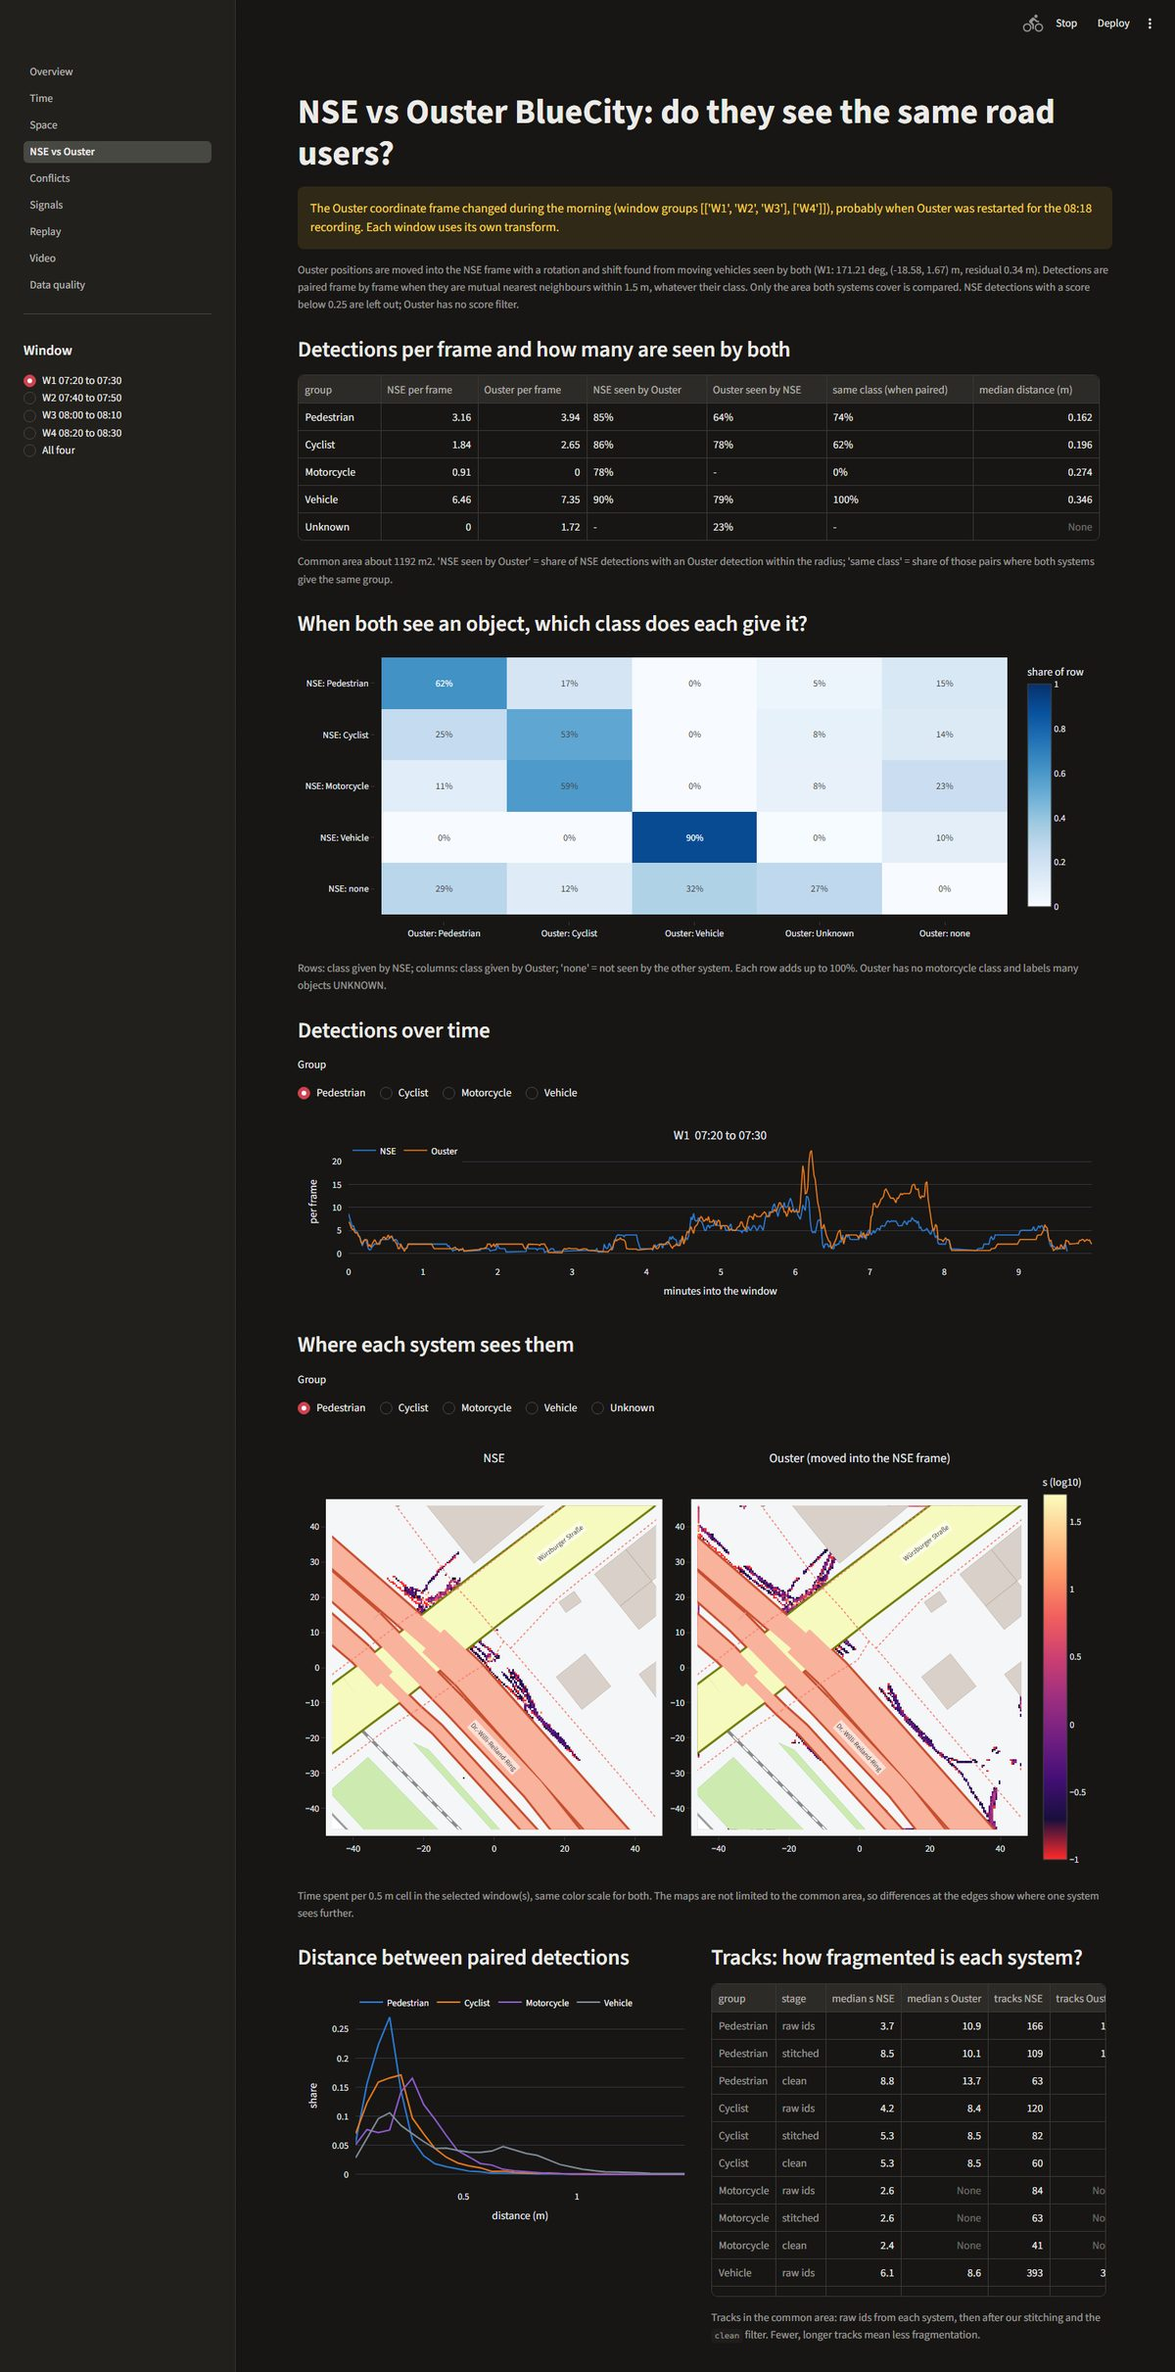
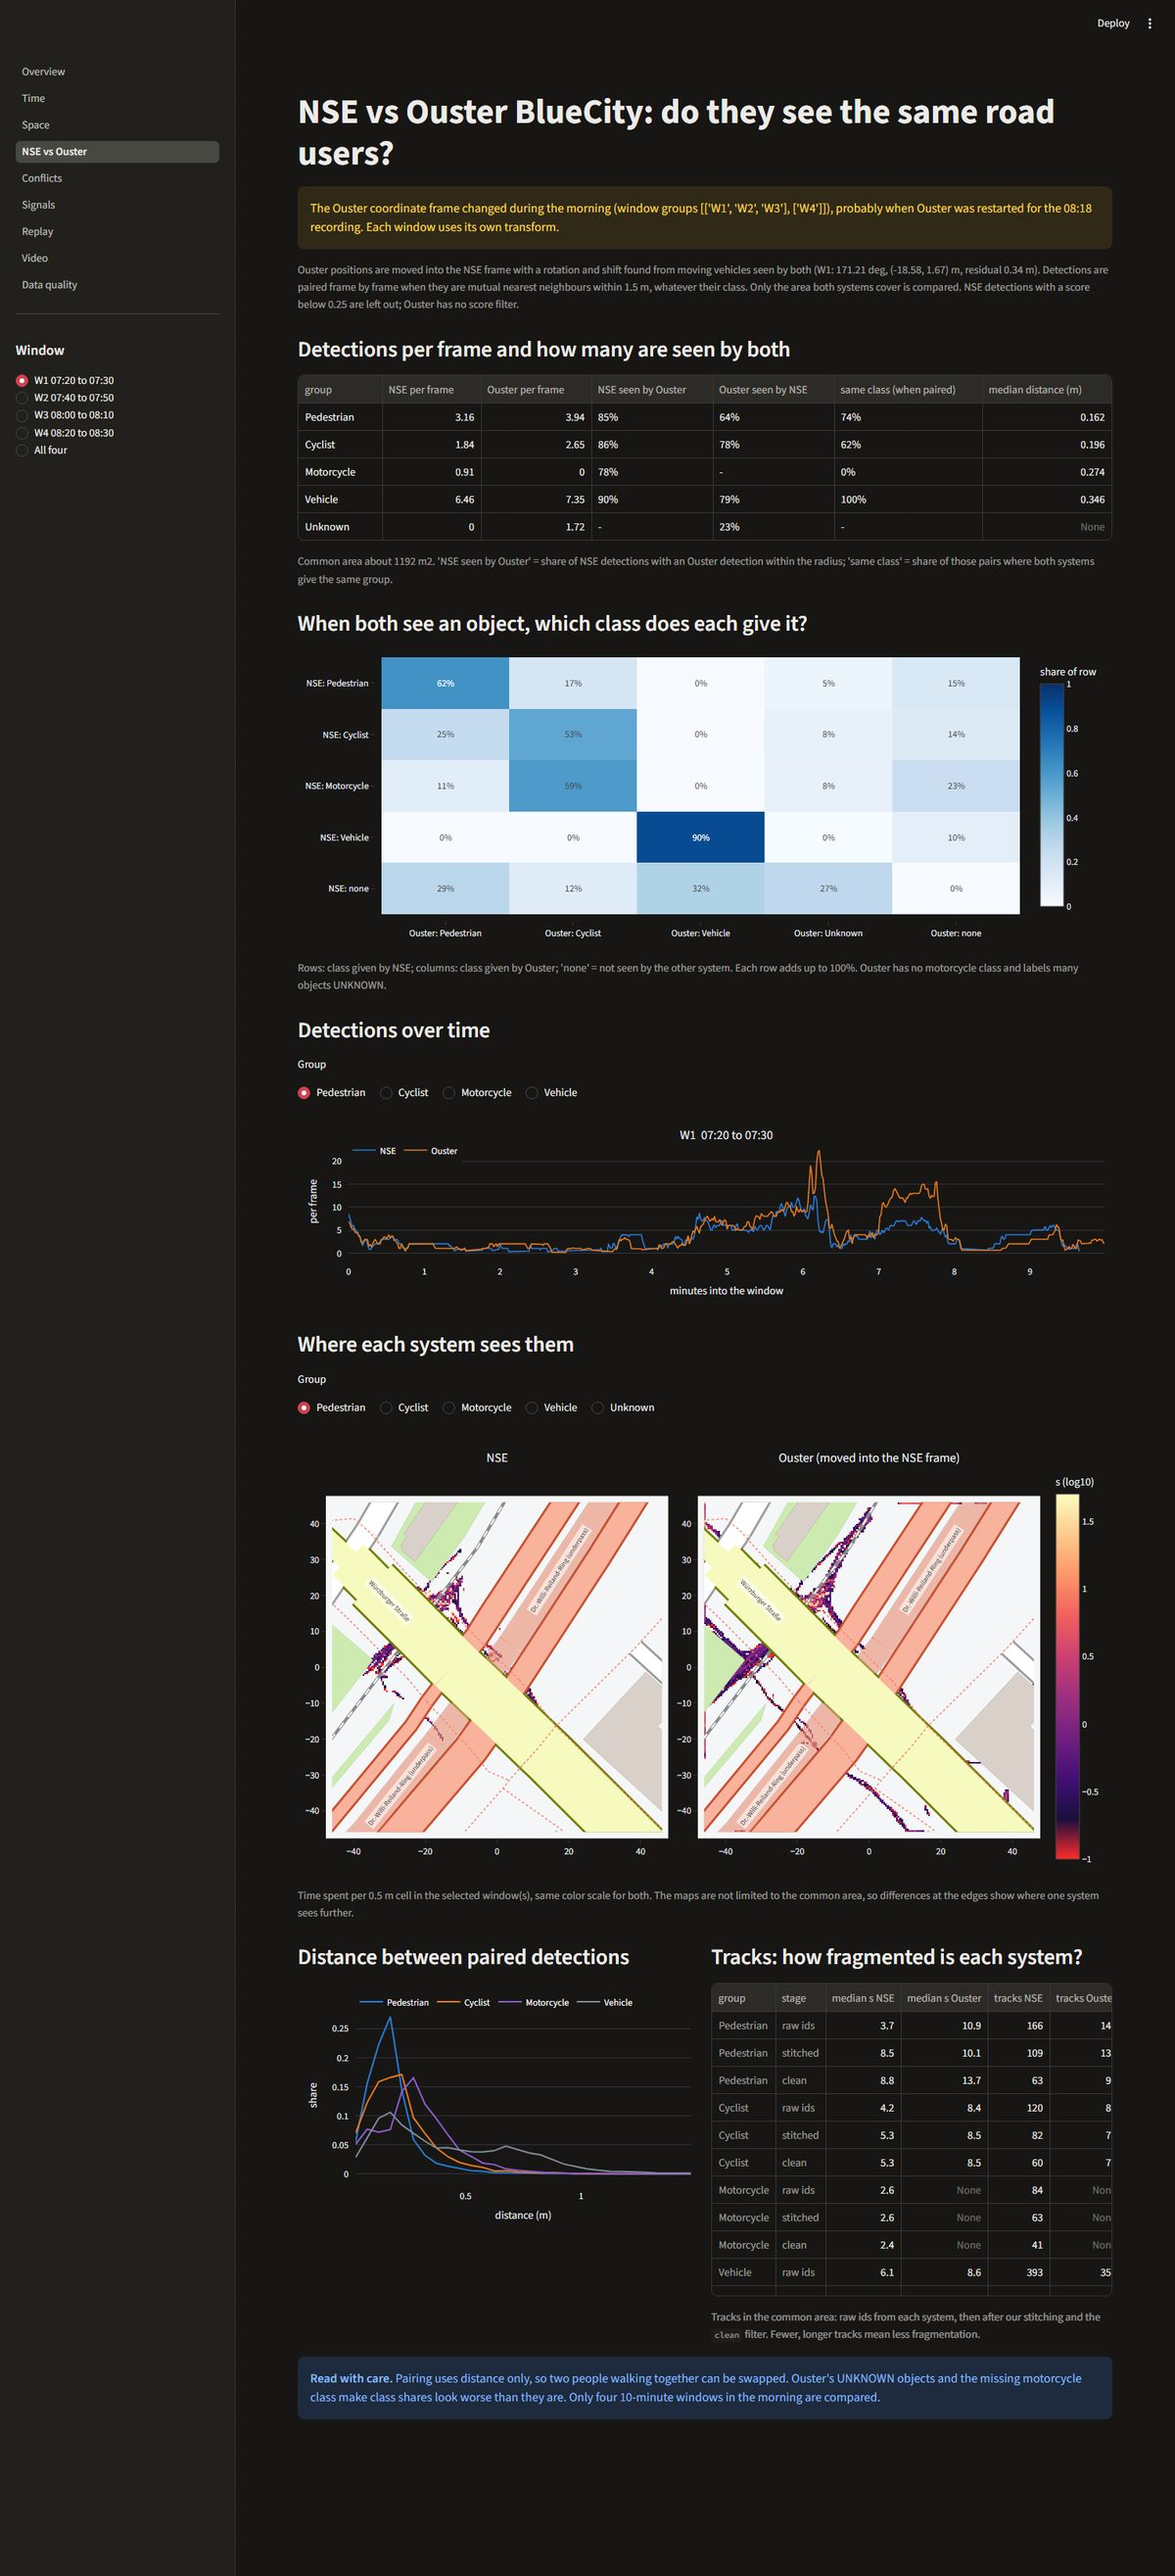
Fix map alignment: rotation 4.25 deg via surface-road refit, rename arms
The first fit locked onto a turn 90 deg off because the Ring main road runs
under Wuerzburger Strasse. surface_fit refits on surface roads and ramps,
tries all four quarter turns and scores footways and crossings on pedestrian
traffic. Arms renamed to match (old E = N, N = W, W = S, S = E). Zones, map
json, screenshots, findings and docs updated.

diff --git a/map_alignment.py b/map_alignment.py
@@ -13,7 +13,10 @@ Writes in --out:
     alignment_check.png overlay of the map on vehicle and pedestrian density
 
 Method: coarse search over rotation (1 degree steps, FFT cross-correlation over shifts, 1 m cells), then
-a fine local search (0.25 degree, 0.5 m) on the road points. Needs numpy, matplotlib.
+a fine local search (0.25 degree, 0.5 m) on the road points. That first fit uses all motor roads and came out
+90 degrees off at K305, where the Ring main road runs under Wuerzburger Strasse. `surface_fit` therefore refits on
+the surface roads only (Wuerzburger Strasse and the ramps), tries all four quarter turns and picks the one that
+also puts footways and crossings on pedestrian traffic. Needs numpy, matplotlib.
 """
 import argparse
 import json
@@ -237,6 +240,73 @@ def oneway_direction_check(ways, nodes, lat0, lon0, deg, shift, mirror, velfield
     return agree, tot
 
 
+def surface_fit(nodes, ways, lat0, lon0, veh, ped, deg0, mirror, radius=60.0):
+    """Refit on the roads the sensor can see, trying all four quarter turns from `deg0`.
+
+    At K305 Wuerzburger Strasse is a bridge and the Ring main road (highway=trunk) runs underneath, so vehicles on
+    the Ring are not on the junction surface. Fitting all motor roads, as `refine` does, can lock onto a turn that is
+    90 deg off (the junction looks almost the same turned). Here: Wuerzburger Strasse and the ramps (trunk_link) must
+    lie on vehicle traffic, the Ring main road should not, road outside the sensor view counts as empty, and
+    footways and crossing nodes must lie on pedestrian traffic (that breaks the 180 deg symmetry).
+    The pose is searched as "where the Wuerzburger x Ring point lands" plus a rotation around it.
+    """
+    def pts(pred, centre=None, r=radius):
+        p = np.vstack([densify(way_xy(w, nodes, lat0, lon0)) for w in ways if pred(w["tags"])])
+        return p if centre is None else p[np.hypot(*(p - centre).T) < r]
+
+    wz_all = pts(lambda t: t.get("name") == "Würzburger Straße")
+    ring_all = pts(lambda t: t.get("highway") == "trunk")
+    near = lambda p: p[np.hypot(p[:, 0], p[:, 1]) < 80]
+    a, b = near(wz_all), near(ring_all)
+    dist = np.hypot(a[:, None, 0] - b[None, :, 0], a[:, None, 1] - b[None, :, 1])
+    i, j = np.unravel_index(np.argmin(dist), dist.shape)
+    J = (a[i] + b[j]) / 2  # Wuerzburger x Ring, ENU meters
+    wz = wz_all[np.hypot(*(wz_all - J).T) < radius]
+    ramps = pts(lambda t: t.get("highway") == "trunk_link", J)
+    under = ring_all[np.hypot(*(ring_all - J).T) < radius]
+    foot = pts(lambda t: t.get("highway") in PED_HIGHWAYS or t.get("footway") == "crossing", J)
+    xnodes = np.array([to_local(v[0], v[1], lat0, lon0) for v in nodes.values() if v[2].get("highway") == "crossing"])
+
+    def z(img):
+        d = blur(np.log1p(img), 1.5)
+        return (d - d.mean()) / d.std()
+    dv, dp = z(veh), z(ped)
+    empty = float(np.quantile(dv, 0.2))
+
+    def val(img, p, deg, sh, fill):
+        s = sample(img, to_sensor(p, deg, sh, mirror))
+        return np.where(np.isfinite(s), s, fill)
+
+    def vscore(deg, sh):
+        return val(dv, wz, deg, sh, empty).mean() + val(dv, ramps, deg, sh, empty).mean() - 0.5 * val(dv, under, deg, sh, empty).mean()
+
+    def search(deg_c, t_c, ddeg, dt, sdeg, st):
+        best = (-1e9, deg_c, t_c)
+        for deg in np.arange(deg_c - ddeg, deg_c + ddeg + 1e-9, sdeg):
+            R = rot(-deg).T
+            for tx in np.arange(t_c[0] - dt, t_c[0] + dt + 1e-9, st):
+                for ty in np.arange(t_c[1] - dt, t_c[1] + dt + 1e-9, st):
+                    t = np.array([tx, ty])
+                    s = vscore(deg, t - (J * [1, -1 if mirror else 1]) @ R)
+                    if s > best[0]:
+                        best = (s, deg, t)
+        return best
+
+    cands = {}
+    for turn in (0, 90, 180, 270):  # +90 = map turned clockwise on screen
+        s, deg, t = search(deg0 + turn, np.array([-5.0, -5.0]), 20, 30, 1.0, 1.5)
+        s, deg, t = search(deg, t, 1.5, 2.0, 0.25, 0.25)
+        sh = t - (J * [1, -1 if mirror else 1]) @ rot(-deg).T
+        fw = sample(dp, to_sensor(foot, deg, sh, mirror))
+        xn = sample(dp, to_sensor(xnodes, deg, sh, mirror))
+        c = {"deg": round(float(deg) % 360, 2), "shift": np.round(sh, 2).tolist(), "vehicle": round(float(s), 3),
+             "footway": round(float(np.nanmean(fw)), 3), "crossing": round(float(np.nanmean(xn)), 3)}
+        c["total"] = round(c["vehicle"] + c["footway"] + c["crossing"], 3)
+        cands[f"+{turn}"] = c
+    best = max(cands.values(), key=lambda c: c["total"])
+    return {"deg": best["deg"], "shift": best["shift"], "candidates": cands}
+
+
 GREEN = {"park", "village_green", "grass", "scrub", "pitch", "garden", "wood", "meadow"}
 
 
@@ -320,6 +390,12 @@ def main(argv=None):
     best = next(h for h in hyps if h["mirror"] == mirrored)
     deg, sh, mirror, fine_sc = best["deg"], best["shift"], best["mirror"], best["road_score"]
     print(f"chosen (by handedness): mirror={mirror}, rotation {deg:.2f} deg, shift {sh.round(2)} m")
+    sf = surface_fit(nodes, ways, lat0, lon0, veh, ped, deg, mirror)
+    for k, c in sf["candidates"].items():
+        print(f"surface fit, turn {k}: rotation {c['deg']:.2f} deg, shift {c['shift']}, vehicles {c['vehicle']:.2f}, "
+              f"footways {c['footway']:.2f}, crossings {c['crossing']:.2f}, total {c['total']:.2f}")
+    deg, sh = sf["deg"], np.array(sf["shift"])
+    print(f"chosen (surface roads + pedestrians): rotation {deg:.2f} deg, shift {sh.round(2)} m")
 
     # independent check: pedestrians should be on footways and crossings, not on random lines
     ped_ways = [w for w in ways if w["tags"].get("highway") in PED_HIGHWAYS or w["tags"].get("footway") == "crossing"]
@@ -353,6 +429,7 @@ def main(argv=None):
         "transform_enu_to_sensor": {"rotation_deg": round(float(deg), 3), "shift_m": np.round(sh, 3).tolist(), "mirror": mirror,
                                     "formula": "q = R(-rotation) @ (x_east, +-y_north) + shift"},
         "quality": {"fine_road_score": round(float(fine_sc), 3), **check, "density_files": nfiles,
+                    "surface_fit": sf["candidates"],
                     "hypotheses": [{"mirror": h["mirror"], "rotation_deg": round(float(h["deg"]), 3), "shift_m": np.round(h["shift"], 3).tolist(),
                                     "road_score": round(float(h["road_score"]), 3), "oneway_match": h["oneway_match"],
                                     } for h in hyps],

diff --git a/dashboard/lib/plots.py b/dashboard/lib/plots.py
@@ -9,11 +9,12 @@ from lib import data
 LIM = 46
 LAND = "#f2efe9"
 # highway type: (fill, casing, default width m, draw order); OSM Carto colors
+# Ring main road (trunk) runs below the junction, under the Wuerzburger Strasse bridge: drawn first and faded
 ROAD_STYLE = {
-    "trunk": ("#f9b29c", "#c84e2f", 7.0, 5),
+    "trunk": ("rgba(249,178,156,0.45)", "rgba(200,78,47,0.35)", 7.0, -1),
     "trunk_link": ("#f9b29c", "#c84e2f", 3.5, 4),
     "primary": ("#fcd6a4", "#a06b00", 8.0, 5),
-    "secondary": ("#f7fabf", "#707d05", 7.0, 3),
+    "secondary": ("#f7fabf", "#707d05", 7.0, 5),  # Wuerzburger Strasse, the bridge: on top
     "tertiary": ("#ffffff", "#8f8f8f", 6.0, 2),
     "residential": ("#ffffff", "#9a9a9a", 6.0, 1),
     "service": ("#ffffff", "#9a9a9a", 4.0, 0),
@@ -64,11 +65,12 @@ def _labels(roads, lim=LIM - 4, min_len=12, spacing=30):
         cum = np.cumsum(L)
         i = int(np.searchsorted(cum, cum[-1] / 2))  # segment at half the visible length
         x, y = mid[i]
-        if any(n == f["name"] and math.hypot(x - a, y - b) < spacing for a, b, _, n in out):
+        name = f["name"] + (" (underpass)" if f.get("highway") == "trunk" else "")
+        if any(n == name and math.hypot(x - a, y - b) < spacing for a, b, _, n in out):
             continue
         ang = -math.degrees(math.atan2(seg[i, 1], seg[i, 0]))
         ang = (ang + 90) % 180 - 90  # keep text upright
-        out.append((float(x), float(y), ang, f["name"]))
+        out.append((float(x), float(y), ang, name))
     return out
 
 

diff --git a/dashboard/lib/replay.py b/dashboard/lib/replay.py
@@ -48,6 +48,7 @@ def map_layer():
     for c in (z or {}).get("crossings", []):
         cx, cy = np.mean(c["polygon"], axis=0)
         crossings.append({"id": c["id"], "xy": c["polygon"], "cx": float(cx), "cy": float(cy)})
+    roads = [f for f in roads if f["highway"] != "trunk"]  # Ring main road is under the junction: not drawn
     return {"roads": [{"xy": f["xy"], "w": plots._width(f)} for f in roads],
             "footways": [f["xy"] for f in osm["footways"]],
             "buildings": [f["xy"] for f in osm.get("buildings", [])],

diff --git a/docs/DASHBOARD_SPEC.md b/docs/DASHBOARD_SPEC.md
@@ -9,7 +9,7 @@ Status: draft, decisions of 2026-11-09 included. Branch: `stitching-comparison`.
 | 1 | Stack | **Streamlit** (Python). Sections 4.6 and 6 are rewritten for it. |
 | 2 | Default cleaning variant | **`clean`**, with a dropdown in the sidebar to switch to `stitched` or `segmented` |
 | 3 | Events | Default is the **original pipeline** (`published`) events. Events recomputed on stitched tracks stay available as a comparison |
-| 4 | Map | OSM extract `dashboard/config/k305_map.osm` is aligned to the sensor frame (rotation 276 deg, no mirror); result in `dashboard/config/k305_map.json`. Crossing zones and arms still to be defined from it |
+| 4 | Map | OSM extract `dashboard/config/k305_map.osm` is aligned to the sensor frame (rotation 4.25 deg, no mirror; corrected 2026-11-10, see 5.5); result in `dashboard/config/k305_map.json`. Crossing zones and arms still to be defined from it |
 | 5 | Order of work | Map alignment first (done), then the data pipeline (M0/M1) |
 | 6 | Dataset | **29 October 2026 only** (decided after the professor's email); 14 October is dropped from the dashboard and kept only as test samples. Shared analysis windows: `docs/ANALYSIS_WINDOWS.md` |
 | 7 | NSE score | detections with a score below **0.25** are left out, as in `near_miss_analysis.py` |
@@ -202,6 +202,7 @@ The dashboard must work without the open items (features degrade as noted in eac
 - **Mirror question settled two independent ways:** (a) right-hand traffic: vehicles on the main axis keep right of the opposite flow in the sensor frame (8.4 m gap); (b) on the OSM one-way roads the recorded vehicle direction matches the drawn direction at 86 of 104 points (mirrored alternative: 9 of 102).
 - **Pedestrian check:** the mean log density of pedestrians on OSM footways is 0.64, random points 0.44.
 - **Accuracy:** not measured beyond the visual check in `alignment_check.png`; treat it as about 2 m. The OSM junction (signals mean) lies at the edge of the sensor window, so the map is trustworthy mainly where tracks exist.
+- **Correction (2026-11-10, 29 Oct data):** the fit above was 90 degrees off. Würzburger Straße crosses the Ring on a bridge and the Ring main road runs underneath, so the sensor sees no traffic on the Ring itself; fitting all motor roads matched the wrong pair of road bands. `surface_fit` in `map_alignment.py` now refits on Würzburger Straße and the ramps only, penalises traffic on the Ring main road, tries all four quarter turns and also scores footways and crossing nodes against pedestrian traffic. Result: rotation 4.25 deg, shift (-20.9, 8.2) m; quarter-turn totals +0 1.62, +90 4.44, +180 2.94, +270 3.79. The team confirmed the orientation by eye. Arms were renamed accordingly (old E = new N, old N = W, old W = S, old S = E); crossing areas did not move.
 
 ## 6. Technical approach
 

diff --git a/dashboard/content/findings.md b/dashboard/content/findings.md
@@ -7,7 +7,7 @@ _29 October 2026, NSE object list (score at least 0.25), variant `clean` unless 
 - **Vulnerable road users (pedestrians, cyclists, motorcycles) are 20% of all tracks** in `clean` (3,829 pedestrian, 2,551 cyclist, 1,626 motorcycle tracks against 28,138 cars). In `stitched` they are 32%: the movement filter drops many short pedestrian tracks, so the true share is somewhere between.
 
 **Where**
-- **Most pedestrian and cyclist trips link the E and N arms** (Würzburger Straße east and Dr.-Willi-Reiland-Ring north): 821 tracks E to N and 722 N to E, then W to S with 357. See **Space**.
+- **Most pedestrian and cyclist trips link the N and W arms** (Dr.-Willi-Reiland-Ring north and Würzburger Straße west): 821 tracks N to W and 722 W to N, then S to E with 357. See **Space**.
 - **45% of pedestrian tracks and 25% of cyclist tracks pass one of the five crossings** (X1 to X5). The rest walk or ride along the sidewalks, or cross somewhere the zones do not cover.
 
 **Signals**

diff --git a/dashboard/README.md b/dashboard/README.md
@@ -49,8 +49,10 @@ The filters are kept in the URL, so a link opens the same view. On Video, `?t=07
 ## The pages in detail
 
 Screenshots: `clean` variant, whole day, dark theme (Streamlit follows the system theme). Maps are in **sensor
-meters**, about ±46 m around the junction; north-west to south-east is Dr.-Willi-Reiland-Ring (salmon), south-west to
-north-east is Würzburger Straße (yellow). Arms: **N** and **S** on the Ring, **E** and **W** on Würzburger Straße.
+meters**, about ±46 m around the junction. Würzburger Straße (yellow) runs from upper left to lower right and crosses
+the Ring on a bridge; Dr.-Willi-Reiland-Ring (faded salmon, "underpass") runs from lower left to upper right below the
+junction, and only its ramps (salmon) are at street level. Arms: **N** and **S** on the Ring, **E** and **W** on
+Würzburger Straße.
 Crossings **X1 to X5** (green outlines) were found from the data by `zones.py`.
 
 ### Overview
